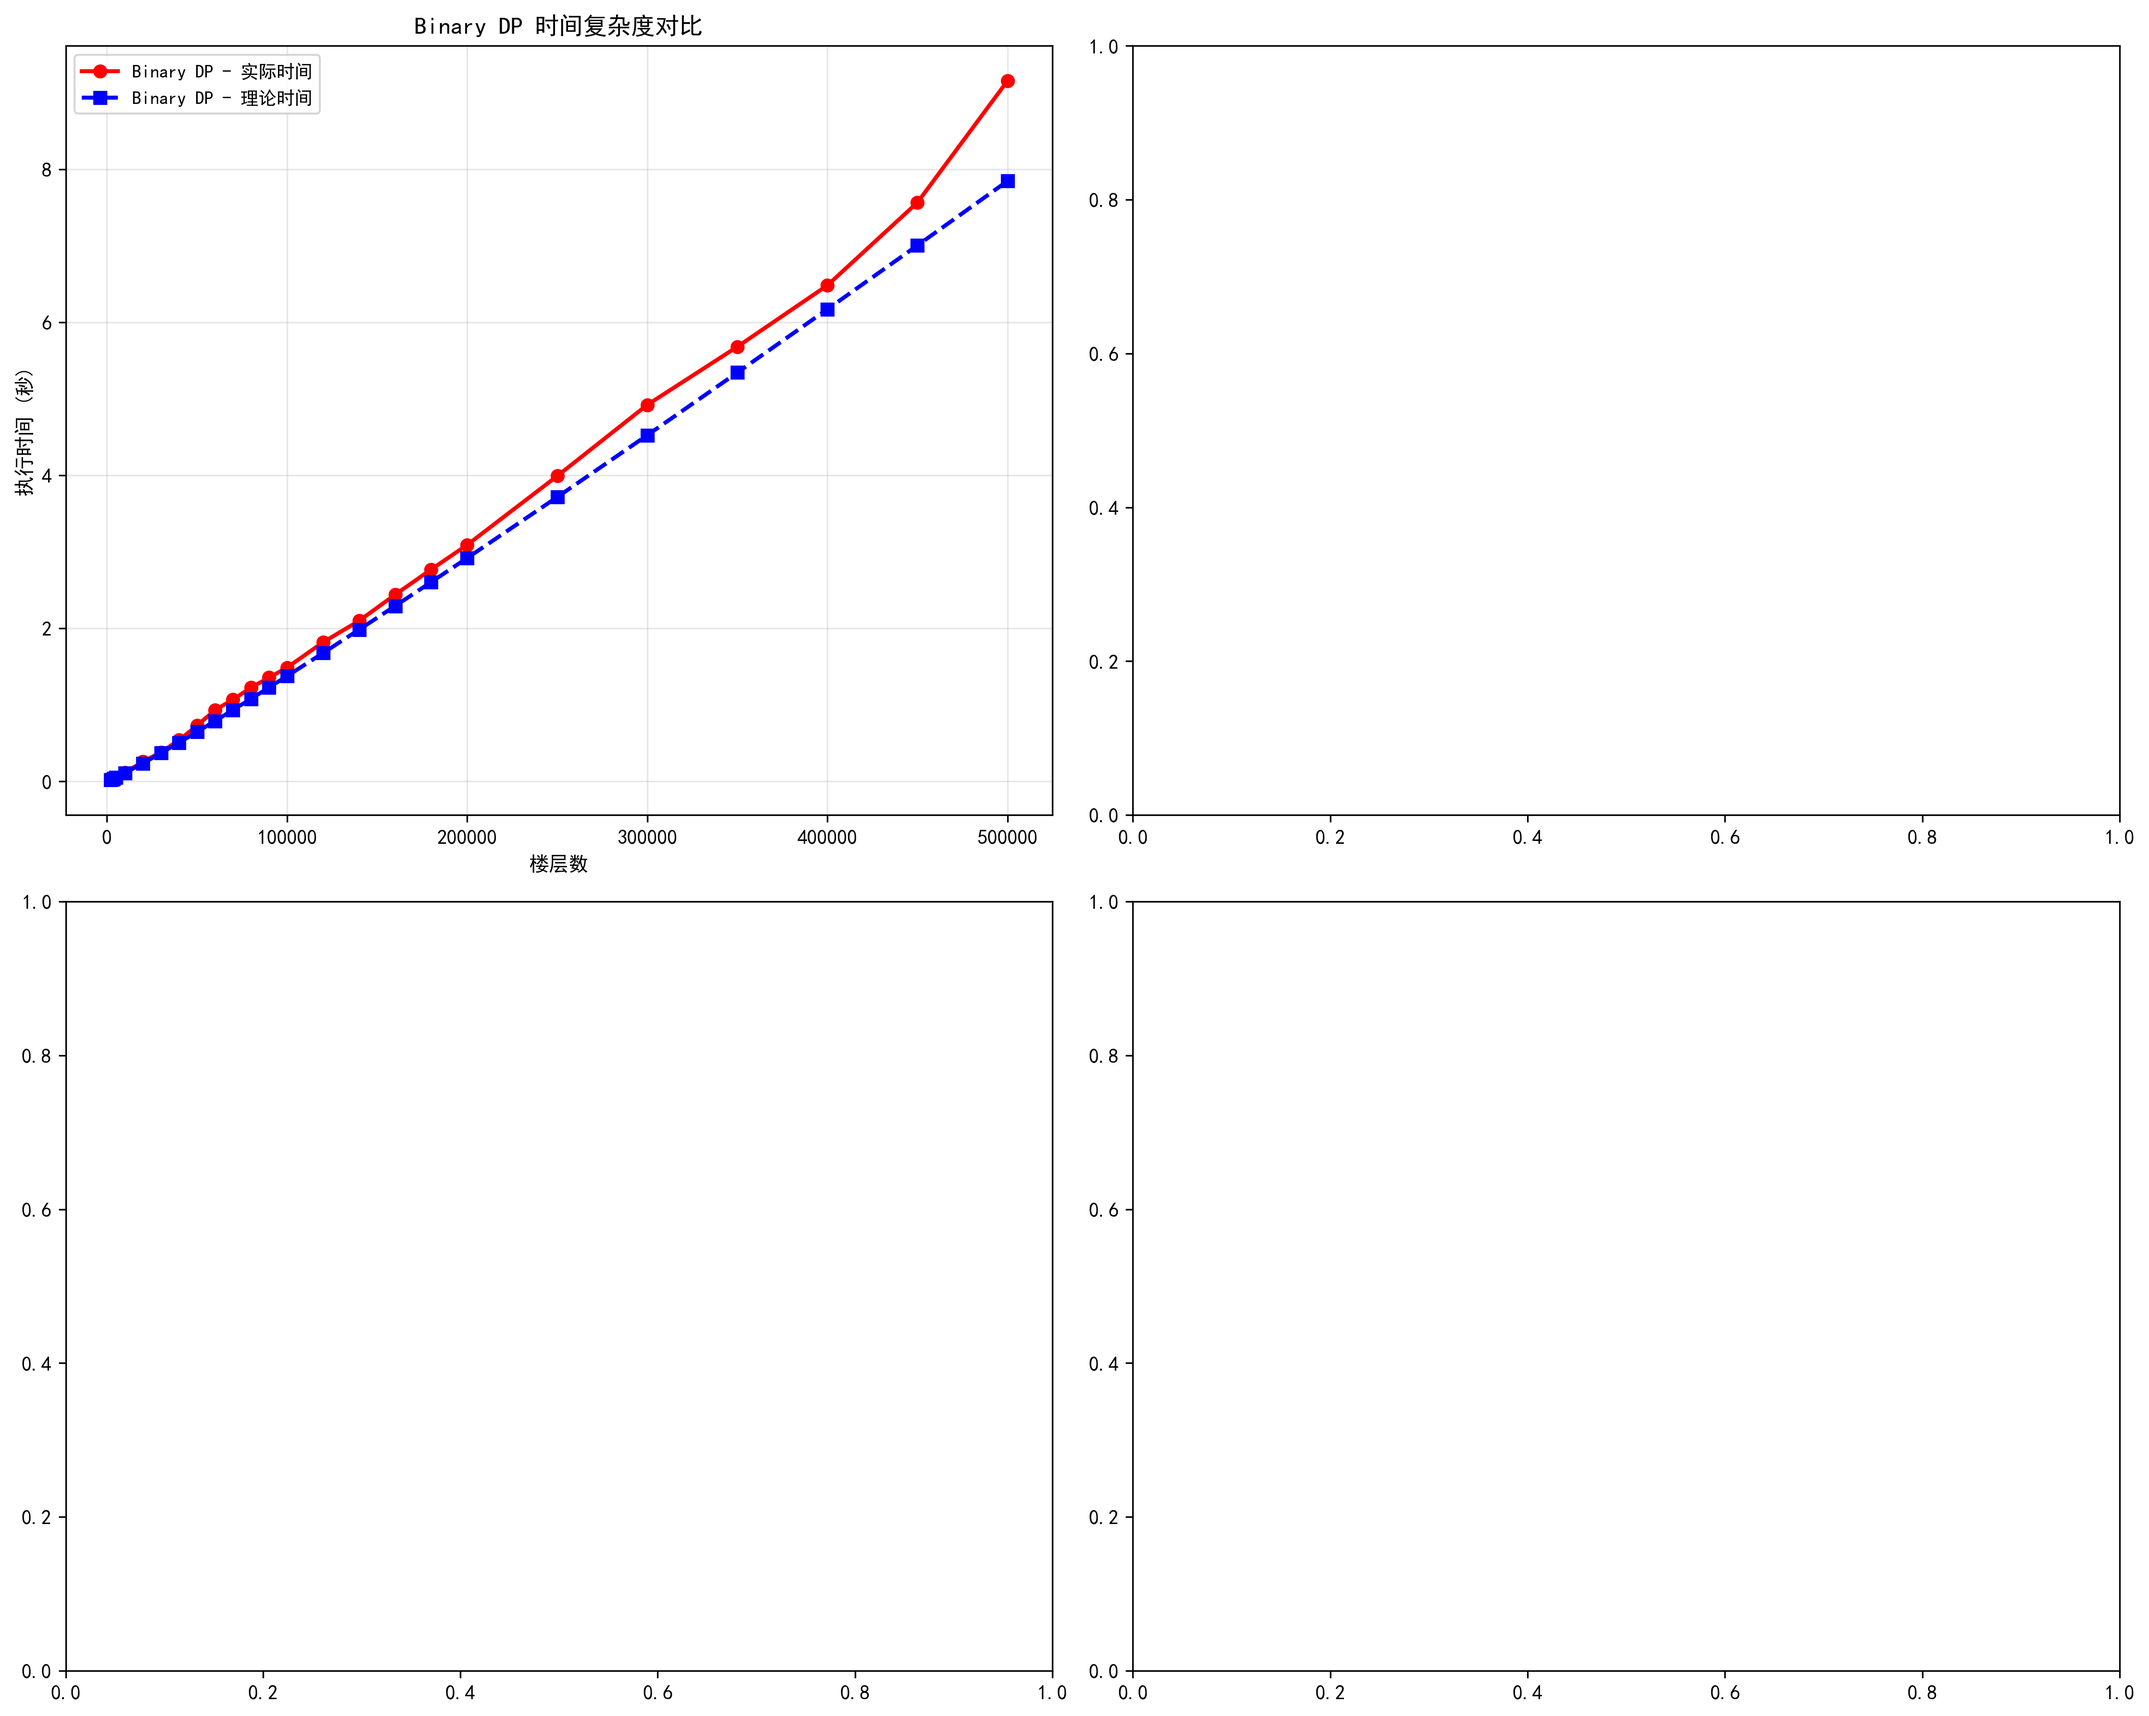
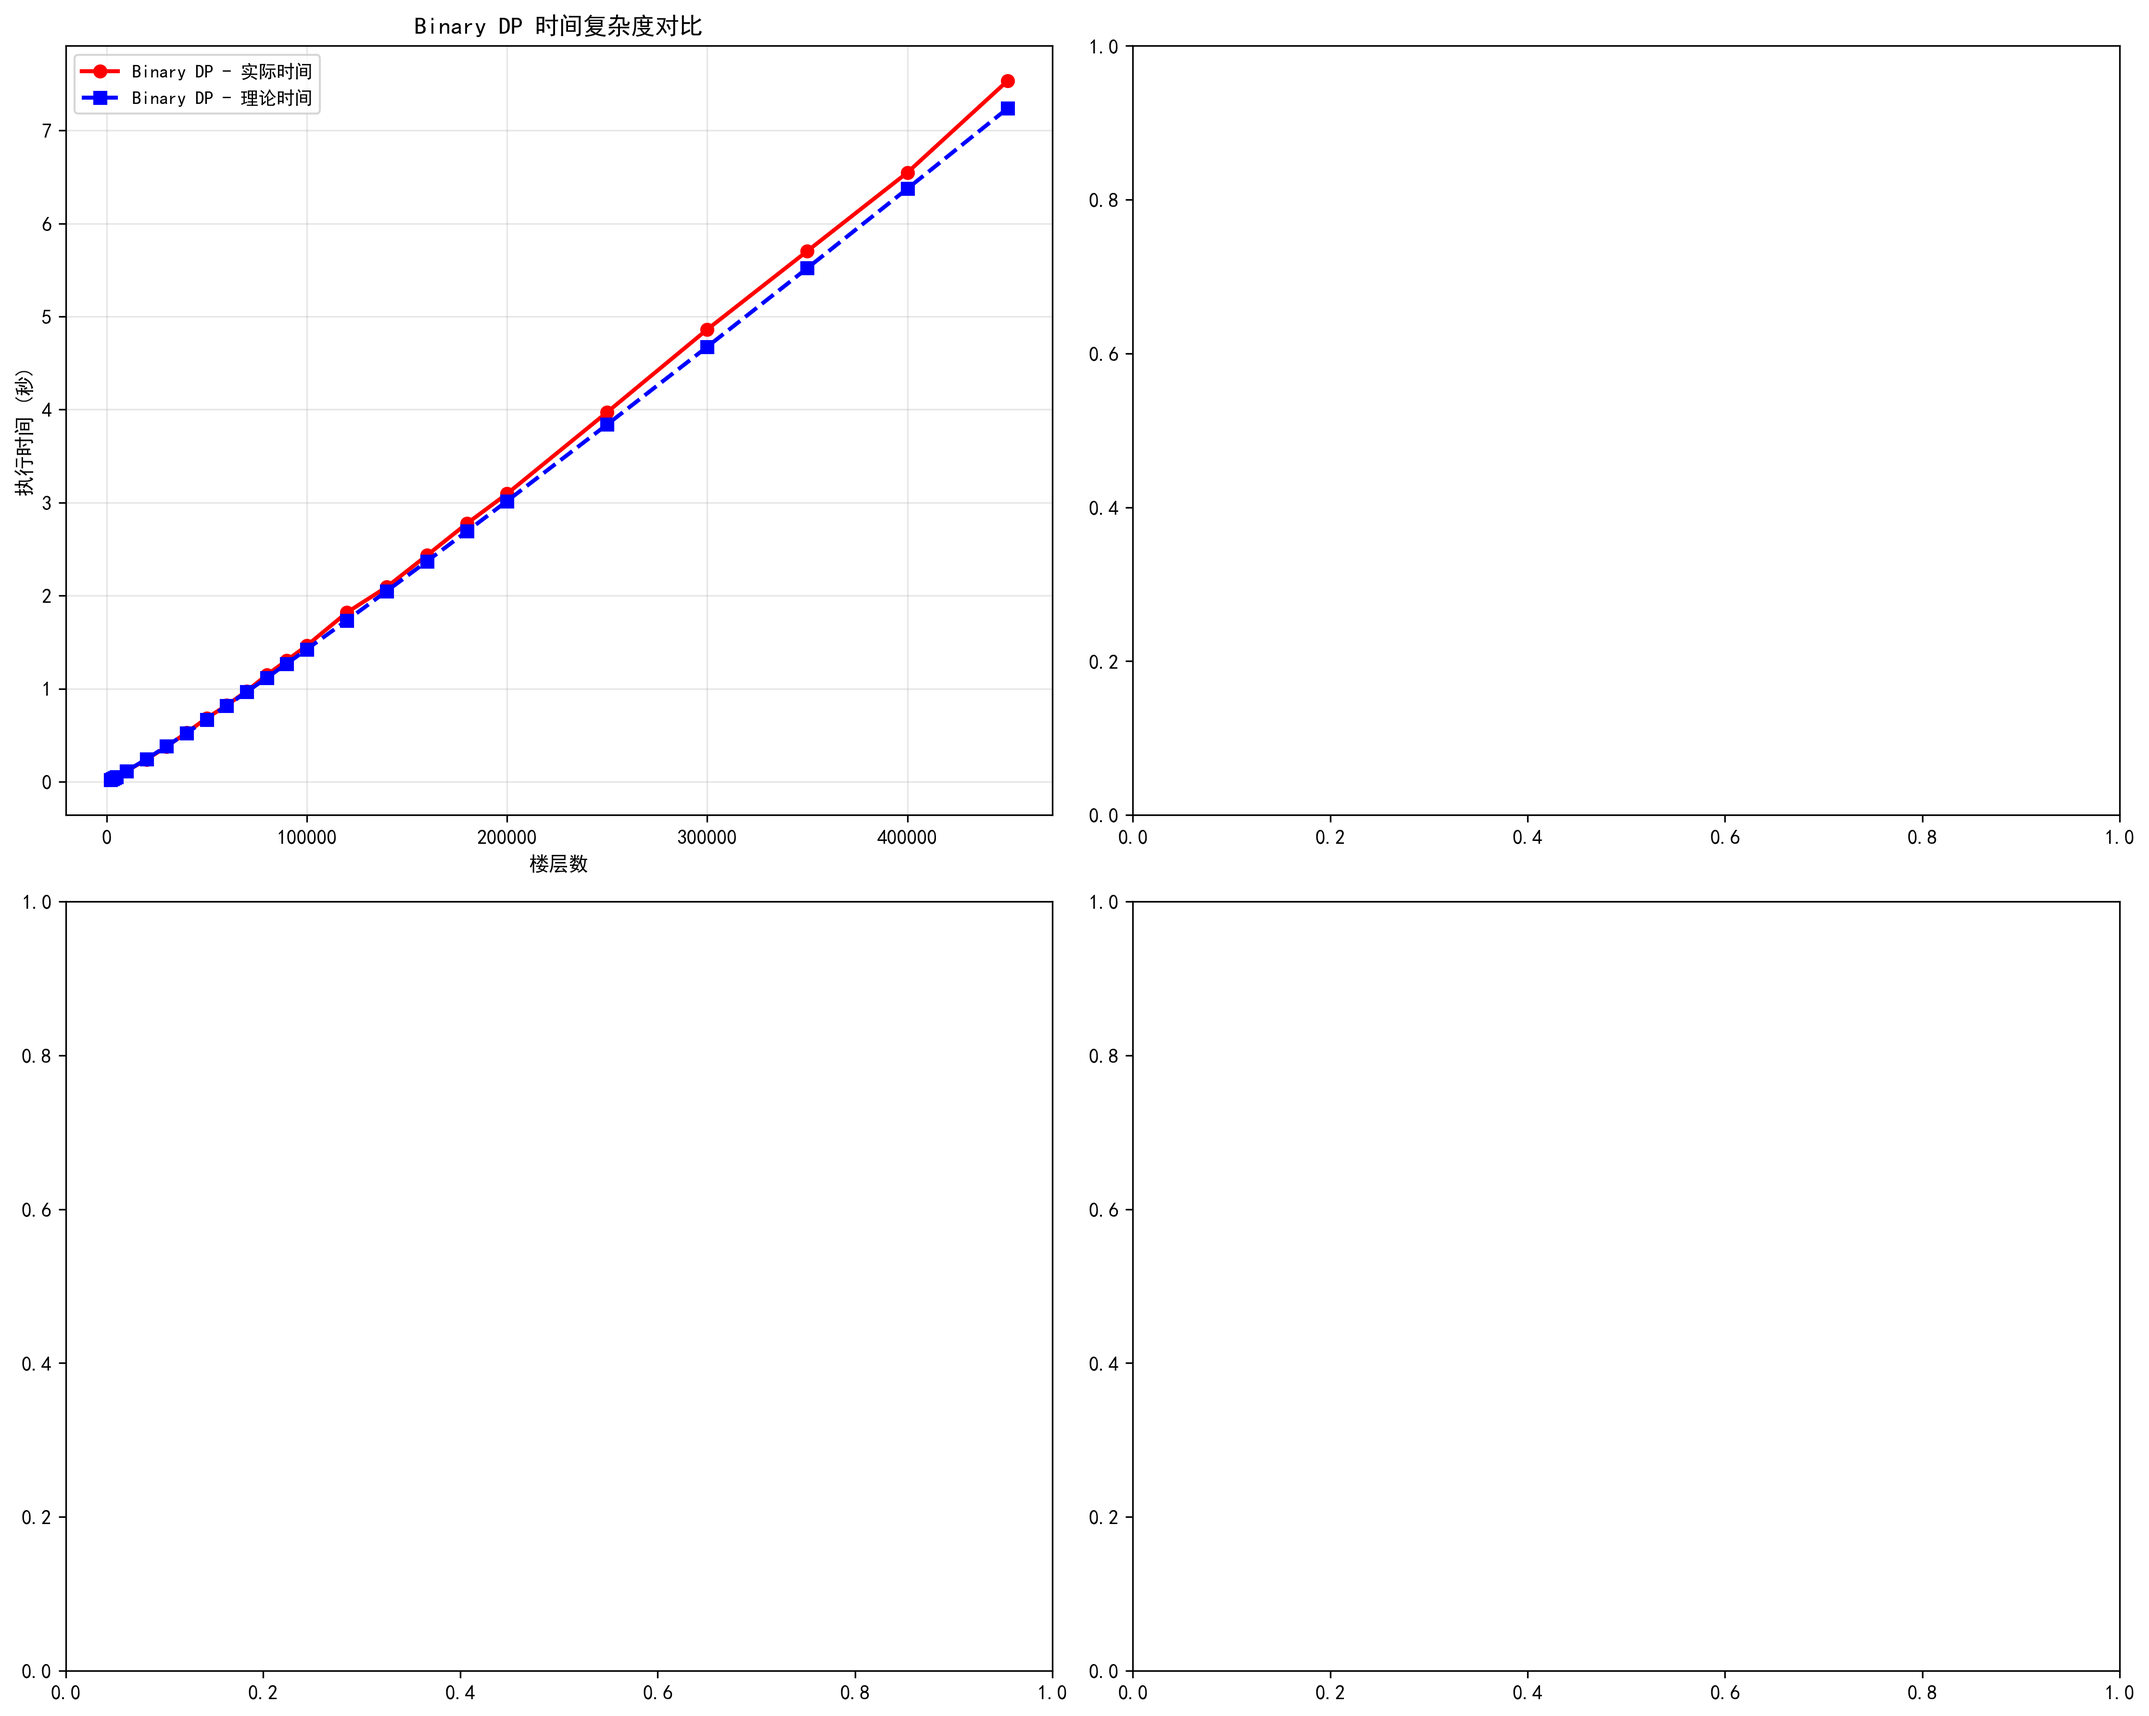
update lab4

diff --git a/lab4/main.py b/lab4/main.py
@@ -14,32 +14,32 @@ from algorithms import (
 plt.rcParams['font.sans-serif'] = ['SimHei']  # 设置中文字体
 
 # ==== 参数设置 ====
-# eggs_list = [1, 2, 3, 4, 5, 6, 7, 8, 9, 10, 11, 12, 13, 14, 15]  # 针对Brute Force, Naive DP, Binary DP
+eggs_list = [1, 2, 3, 4, 5, 6, 7, 8, 9, 10, 11, 12, 13, 14, 15]  # 针对Brute Force, Naive DP, Binary DP
 # eggs_list = [1, 3, 5, 10, 15, 20, 25, 50, 75,
 #              100, 150, 200, 250, 300, 500]  # 针对Optimized DP
 
-eggs_list = [5] # 单个鸡蛋数量纵向对比
+# eggs_list = [5] # 单个鸡蛋数量纵向对比
 
-# floors_list = [10, 20, 30, 40, 50, 60, 70, 80, 90, 100, 110, 120, 130, 140, 150]  # 针对Brute Force
+floors_list = [10, 20, 30, 40, 50, 60, 70, 80, 90, 100]  # 针对Brute Force
 # floors_list = [100, 200, 300, 400, 500, 600, 700, 800, 900, 1000, 1100, 1200, 1300, 1400, 1500]  # 针对Naive DP
 # floors_list = [100, 500, 1000, 2000, 3000, 4000, 5000, 10000, 20000, 30000, 40000, 50000, 60000, 70000, 80000]  # 针对Binary DP
 # floors_list = [100, 500, 1000, 5000, 10000, 50000, 100000, 200000, 300000, 500000, 1000000, 1200000, 1500000, 1800000, 2000000]  # 针对Optimized DP
 
 # 针对所有算法的通用楼层数量列表
-floors_list = [   1,2,3,4,5,6,7,8,9,10,12,15,18, 20, 30, 40, 50, 75, 100, 125, 150, 200, 250, 300, 500, 750, 1000,
-               1500, 2000, 2500, 3000, 5000, 10000, 15000, 20000, 25000, 30000, 50000,
-               75000, 100000, 150000, 200000, 250000, 300000, 500000, 750000, 1000000,
-               1250000, 1500000, 2000000, 2500000, 3000000, 3500000, 4000000, 4500000, 5000000,7500000,10000000] 
+# floors_list = [   1,2,3,4,5,6,7,8,9,10,12,15,18, 20, 30, 40, 50, 75, 100, 125, 150, 200, 250, 300, 500, 750, 1000,
+#                1500, 2000, 2500, 3000, 5000, 10000, 15000, 20000, 25000, 30000, 50000,
+#                75000, 100000, 150000, 200000, 250000, 300000, 500000, 750000, 1000000,
+#                1250000, 1500000, 2000000, 2500000, 3000000, 3500000, 4000000, 4500000, 5000000,7500000,10000000] 
 
 RUNS_PER_ALGO = 3              # 每个组合运行次数
-MAX_RUNTIME = 5                # 单次运行最大秒数
+MAX_RUNTIME = 10                # 单次运行最大秒数
 
 # ==== 算法映射 ====
 algorithms = {
     "Brute Force": egg_drop_brute_force,
-    "Naive DP": egg_drop_naive,
-    "Binary DP": egg_drop_binary,
-    "Optimized DP": egg_drop_optimized
+    # "Naive DP": egg_drop_naive,
+    # "Binary DP": egg_drop_binary,
+    # "Optimized DP": egg_drop_optimized
 }
 
 

diff --git a/lab4/benchmark.py b/lab4/benchmark.py
@@ -20,7 +20,7 @@ class TimeComplexityBenchmark:
         self.max_runtime = max_runtime
         
         # 测试用的楼层数列表（较少的数据点用于基准测试）
-        # self.floors_list = [10, 12, 14, 16, 18, 20, 22, 24, 26, 28, 30] # 针对Brute Force
+        # self.floors_list = [12,13, 14,15, 16,17, 18,19, 20,21, 22,23, 24, 26, 28, 30] # 针对Brute Force
         # self.floors_list =[200, 400, 600, 800, 1000, 1200, 1400, 1600, 1800, 2000, 2200, 2400, 2600, 2800, 3000,3500, 4000, 4500, 5000, 5500, 6000] # 针对Naive DP
         # self.floors_list = [2000, 3000, 4000, 5000, 10000, 20000, 30000, 40000, 50000, 60000, 70000, 80000, 90000, 100000, 120000, 140000, 160000, 180000, 200000, 250000, 300000, 350000, 400000, 450000, 500000]  # 针对Binary DP
         self.floors_list = [ 100000, 200000, 300000, 500000, 1000000, 1200000, 1500000, 1800000, 2000000, 2200000, 2500000, 3000000, 3500000, 4000000, 4500000, 5000000, 6000000, 7000000, 8000000, 9000000, 10000000, 20000000, 30000000]  # 针对Optimized DP
